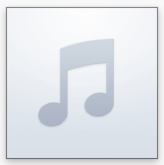
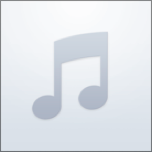
trying out vote feedback

diff --git a/app/_views/album_art_view.rb b/app/_views/album_art_view.rb
@@ -1,0 +1,89 @@
+class AlbumArtView < NSImageView
+
+  def init
+    super.tap do |v|
+      v.setTranslatesAutoresizingMaskIntoConstraints(false)
+      v.setEditable(false)
+      v.setImageScaling(NSImageScaleAxesIndependently)
+
+      @vote_view = VoteView.new
+      v.addSubview(@vote_view)
+
+      @vote_slider_in_progress = false
+
+      slidein_vote_view
+    end
+  end
+
+  def slidein_vote_view
+    return if @vote_slider_in_progress
+
+    new_frame = @vote_view.frame
+    new_frame.origin.x += VOTE_VIEW_W
+
+    @vote_slider_in_progress = true
+    NSAnimationContext.beginGrouping
+    NSAnimationContext.currentContext.setCompletionHandler(
+      lambda do
+        timer = NSTimer.scheduledTimerWithTimeInterval(
+          4.0,
+          target:self,
+          selector:'slideout_vote_view',
+          userInfo:nil,
+          repeats: false
+        )
+        NSRunLoop.mainRunLoop.addTimer(timer, forMode:NSRunLoopCommonModes)
+      end
+    )
+    NSAnimationContext.currentContext.setDuration(0.5)
+    @vote_view.animator.setFrame(new_frame)
+    NSAnimationContext.endGrouping
+  end
+
+  def slideout_vote_view
+    new_frame = @vote_view.frame
+    new_frame.origin.x -= VOTE_VIEW_W
+
+    NSAnimationContext.beginGrouping
+    NSAnimationContext.currentContext.setCompletionHandler(
+      lambda do
+        @vote_slider_in_progress = false
+      end
+    )
+    NSAnimationContext.currentContext.setDuration(0.5)
+    @vote_view.animator.setFrame(new_frame)
+    NSAnimationContext.endGrouping
+  end
+
+  def handle_vote(rating)
+    @vote_view.do_vote(rating)
+    slidein_vote_view
+  end
+
+  def drawRect(dirtyRect)
+    super dirtyRect
+
+    @vote_view.removeFromSuperview
+    addSubview(@vote_view, positioned:NSWindowAbove, relativeTo:nil)
+  end
+
+  def mouseEntered(event)
+    slidein_vote_view
+  end
+
+  def updateTrackingAreas
+    if @trackingArea != nil
+      removeTrackingArea(@trackingArea)
+    end
+
+    @trackingArea = NSTrackingArea.alloc.initWithRect(
+      [[0,frame.size.height-VOTE_VIEW_H],[VOTE_VIEW_W,frame.size.height]],
+      options:NSTrackingMouseEnteredAndExited | NSTrackingActiveAlways,
+      owner:self,
+      userInfo:nil
+    )
+
+    addTrackingArea(@trackingArea)
+  end
+
+end

diff --git a/app/_views/vote_view.rb b/app/_views/vote_view.rb
@@ -1,0 +1,64 @@
+class VoteView < NSView
+
+  def init
+    super.tap do |v|
+      v.frame = [[0-VOTE_VIEW_W,50-VOTE_VIEW_H],[VOTE_VIEW_W,VOTE_VIEW_H]]
+
+      @label = NSTextField.new.tap do |txt|
+        txt.setEditable(false)
+        txt.frame = [[3,2],[20,14]]
+        txt.setSelectable(false)
+        txt.setBezeled(false)
+        txt.setDrawsBackground(false)
+        txt.setAlignment(NSCenterTextAlignment)
+      end
+
+      v.addSubview(@label)
+    end
+  end
+
+  def do_vote(rating)
+    # grey
+    bg_col = NSColor.colorWithCalibratedRed(0.227, green:0.251, blue:0.337, alpha:0.8)
+    fg_col = NSColor.whiteColor
+
+    # green
+    if rating > 0
+      bg_col = NSColor.colorWithCalibratedRed(0, green:0.93, blue:0, alpha:0.8)
+      fg_col = NSColor.blackColor
+    end
+
+    # red
+    if rating < 0
+      bg_col = NSColor.colorWithCalibratedRed(0.9, green:0.4, blue:0.3, alpha:0.8)
+      fg_col = NSColor.blackColor
+    end
+
+    txt = rating.to_s.attrd({
+      'NSFont' => NSFont.fontWithName("Helvetica Bold", size:10),
+      'NSColor' => fg_col
+    })
+    @label.setAttributedStringValue(txt)
+    @bg_color = bg_col
+  end
+
+  def drawRect(dirtyRect)
+    draw_backing if @bg_color
+
+    super dirtyRect
+  end
+
+  def draw_backing
+      radius = 15.0
+
+      path = NSBezierPath.bezierPath
+      path.moveToPoint([0,0])
+      path.lineToPoint([VOTE_VIEW_W-radius,0])
+      path.curveToPoint([VOTE_VIEW_W,0+radius], controlPoint1:[VOTE_VIEW_W,0], controlPoint2:[VOTE_VIEW_W,0])
+      path.lineToPoint([VOTE_VIEW_W,VOTE_VIEW_H])
+      path.lineToPoint([0,VOTE_VIEW_H])
+      path.lineToPoint([0,0])
+      @bg_color.setFill
+      path.fill
+  end
+end

diff --git a/app/_views/nowplaying_view.rb b/app/_views/nowplaying_view.rb
@@ -87,15 +87,28 @@ class NowplayingView < NSView
     @jukebox.track unless @jukebox.nil?
   end
 
+  def rating
+    @jukebox.rating unless @jukebox.nil?
+  end
+
   private
 
+  def valid_jb_data?(key)
+    @jukebox.whats_changed.include?(key)
+  end
+
+  def should_update?
+    valid_jb_data?(:track) || valid_jb_data?(:rating)
+  end
+
   def update_data!
-    if @jukebox
+    if @jukebox && should_update?
       update_image
       update_title
       update_artist
       update_album
       update_addedby
+      update_votes
     end
 
     invalidateIntrinsicContentSize
@@ -133,10 +146,7 @@ class NowplayingView < NSView
   end
 
   def draw_image_box
-    NSImageView.new.tap do |v|
-      v.setTranslatesAutoresizingMaskIntoConstraints(false)
-      v.setEditable(false)
-    end
+    AlbumArtView.new
   end
 
   def draw_addedby_box
@@ -215,5 +225,18 @@ class NowplayingView < NSView
         end
       end
     end
+  end
+
+  def update_votes
+    puts "Changed: #{@jukebox.whats_changed}"
+
+    score = if valid_jb_data?(:track)
+      track.rating unless track.nil?
+    elsif valid_jb_data?(:rating)
+      rating.rating unless rating.nil?
+    end
+
+    score = 0 if score.nil?
+    @image.handle_vote(score)
   end
 end

diff --git a/app/lib/jukebox_handler.rb b/app/lib/jukebox_handler.rb
@@ -11,7 +11,7 @@ class JukeboxHandler
   end
 
   def self.build
-    jb = KyanJukebox::Notify.new([:track, :playlist])
+    jb = KyanJukebox::Notify.new([:track, :playlist, :rating])
     jb.json_parser = BW::JSON
 
     new jb

diff --git a/app/config/constants.rb b/app/config/constants.rb
@@ -9,6 +9,9 @@ TRACK_ARTIST=2
 TRACK_ARTWORK_URL=3
 TRACK_ALBUM=4
 
+VOTE_VIEW_H=19
+VOTE_VIEW_W=21
+
 MENU_NOWPLAYING=111
 MENU_CONSOLE_BUTT=222
 
